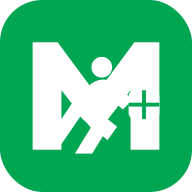
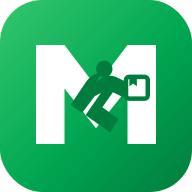
feat(branding): add Mzaya brand v1 production foundation

diff --git a/frontend/src/components/brand/MzayaIcon.jsx b/frontend/src/components/brand/MzayaIcon.jsx
@@ -1,43 +1,13 @@
-// Mzaya brand icon: an "M" with a running courier carrying a package.
-// Inline SVG so it scales crisply everywhere (favicon → splash) and is themeable.
-// Swap for a designer asset later by replacing this file's SVG only.
-export default function MzayaIcon({ size = 48, color = '#00A651', bg = null, rounded = true }) {
-  return (
-    <svg width={size} height={size} viewBox="0 0 100 100" fill="none" xmlns="http://www.w3.org/2000/svg">
-      {bg && (
-        <rect width="100" height="100" rx={rounded ? 22 : 0} fill={bg} />
-      )}
-      {/* The M uprights + valley, drawn as bold strokes */}
-      <g fill={bg ? '#FFFFFF' : color}>
-        {/* left leg of M */}
-        <path d="M20 78 V26 h9 l0 52 z" />
-        {/* right leg of M */}
-        <path d="M71 78 V26 h9 l0 52 z" />
-        {/* M inner diagonals (the valley) — subtle, behind the runner */}
-        <path d="M29 27 l11 20 -7 4 -11 -20 z" opacity="0.9" />
-        <path d="M71 27 l-11 20 7 4 11 -20 z" opacity="0.9" />
-      </g>
+import primary from "../../assets/brand/logos/mzaya-mark-green.svg";
+import white from "../../assets/brand/logos/mzaya-mark-white.svg";
+import navy from "../../assets/brand/logos/mzaya-mark-navy.svg";
 
-      {/* Running courier figure, centered in the M */}
-      <g fill={bg ? '#FFFFFF' : color}>
-        {/* head */}
-        <circle cx="52" cy="34" r="6.5" />
-        {/* torso + leading arm */}
-        <path d="M46 42
-                 q6 -3 12 1
-                 l8 5 -4 6 -7 -4
-                 q-4 -1 -7 2 z" />
-        {/* back leg (extended) */}
-        <path d="M40 66 l10 -12 5 4 -9 14 z" />
-        {/* front leg (driving forward) */}
-        <path d="M52 55 l9 8 -5 6 -11 -9 z" />
-      </g>
+const sources = { primary, white, navy };
 
-      {/* Package in the courier's leading hand */}
-      <g>
-        <rect x="63" y="44" width="13" height="13" rx="2.5" fill={bg ? '#FFFFFF' : color} />
-        <path d="M69.5 44 v13 M63 50.5 h13" stroke={bg || '#00A651'} strokeWidth="1.6" />
-      </g>
-    </svg>
-  )
+export default function MzayaIcon({
+  variant = "primary",
+  className = "",
+  title = "Mzaya",
+}) {
+  return <img src={sources[variant] ?? primary} alt={title} className={className} />;
 }

diff --git a/frontend/src/components/brand/MzayaLockup.jsx b/frontend/src/components/brand/MzayaLockup.jsx
@@ -1,52 +1,13 @@
-import MzayaIcon from './MzayaIcon'
+import primary from "../../assets/brand/logos/mzaya-lockup-horizontal-primary.svg";
+import white from "../../assets/brand/logos/mzaya-lockup-horizontal-white.svg";
+import navy from "../../assets/brand/logos/mzaya-lockup-horizontal-navy.svg";
 
-const GREEN = '#00A651'
+const sources = { primary, white, navy };
 
-// The lowercase "mzaya" wordmark — used in app headers.
-export function MzayaWordmark({ size = 'text-2xl', color = GREEN, className = '' }) {
-  return (
-    <span className={`font-black tracking-tight ${size} ${className}`} style={{ color }}>
-      mzaya
-    </span>
-  )
+export default function MzayaLockup({
+  variant = "primary",
+  className = "",
+  title = "Mzaya — Tumai Mzaya",
+}) {
+  return <img src={sources[variant] ?? primary} alt={title} className={className} />;
 }
-
-// Icon + wordmark together, optionally with the "Tumai Mzaya." tagline.
-// Used on splash / loading / marketing surfaces.
-export function MzayaLockup({ iconSize = 64, stacked = true, tagline = true, onDark = false }) {
-  const textColor = onDark ? '#FFFFFF' : GREEN
-  const taglineColor = onDark ? 'rgba(255,255,255,0.75)' : '#15803D'
-
-  if (stacked) {
-    return (
-      <div className="flex flex-col items-center gap-3">
-        <MzayaIcon size={iconSize} bg={GREEN} />
-        <div className="flex flex-col items-center">
-          <MzayaWordmark size="text-3xl" color={textColor} />
-          {tagline && (
-            <span className="text-sm font-medium mt-0.5" style={{ color: taglineColor }}>
-              Tumai Mzaya.
-            </span>
-          )}
-        </div>
-      </div>
-    )
-  }
-
-  // Horizontal lockup
-  return (
-    <div className="flex items-center gap-2.5">
-      <MzayaIcon size={iconSize} bg={GREEN} />
-      <div className="flex flex-col leading-none">
-        <MzayaWordmark size="text-2xl" color={textColor} />
-        {tagline && (
-          <span className="text-[11px] font-medium mt-0.5" style={{ color: taglineColor }}>
-            Tumai Mzaya.
-          </span>
-        )}
-      </div>
-    </div>
-  )
-}
-
-export default MzayaLockup

diff --git a/frontend/src/assets/brand/tokens/mzaya-tokens.css b/frontend/src/assets/brand/tokens/mzaya-tokens.css
@@ -1,15 +1,7 @@
-:root {
-  --mzaya-green: #00A651;
-  --mzaya-green-dark: #007D3D;
-  --mzaya-green-light: #34C76F;
-  --mzaya-mint: #E8F8EF;
-  --mzaya-navy: #071B33;
-  --mzaya-white: #FFFFFF;
-  --mzaya-surface-subtle: #F7F8FA;
-  --mzaya-text-secondary: #667085;
-  --mzaya-border: #E4E7EC;
-  --mzaya-radius-sm: 10px;
-  --mzaya-radius-md: 16px;
-  --mzaya-radius-lg: 24px;
-  --mzaya-shadow-card: 0 8px 24px rgba(7,27,51,.08);
-}
+@import "./mzaya-colors.css";
+@import "./mzaya-typography.css";
+@import "./mzaya-spacing.css";
+@import "./mzaya-motion.css";
+@import "./mzaya-shadows.css";
+
+html { font-family: var(--mzaya-font-sans); }

diff --git a/frontend/src/assets/brand/tokens/mzaya-colors.css b/frontend/src/assets/brand/tokens/mzaya-colors.css
@@ -1,0 +1,20 @@
+:root {
+  --mzaya-green-50: #EFFCF4;
+  --mzaya-green-100: #D9F8E5;
+  --mzaya-green-200: #B5EFCB;
+  --mzaya-green-300: #82E2A8;
+  --mzaya-green-400: #46CE7F;
+  --mzaya-green-500: #16B45F;
+  --mzaya-green-600: #00A651;
+  --mzaya-green-700: #008541;
+  --mzaya-green-800: #007D3D;
+  --mzaya-green-900: #07562F;
+  --mzaya-navy-950: #071B33;
+  --mzaya-sunshine: #FFC107;
+  --mzaya-mint: #E8F8EF;
+  --mzaya-text-primary: #111827;
+  --mzaya-text-secondary: #667085;
+  --mzaya-surface: #FFFFFF;
+  --mzaya-surface-subtle: #F7F8FA;
+  --mzaya-border: #E4E7EC;
+}

diff --git a/frontend/src/assets/brand/tokens/mzaya-typography.css b/frontend/src/assets/brand/tokens/mzaya-typography.css
@@ -1,0 +1,11 @@
+@import url("https://fonts.googleapis.com/css2?family=Manrope:wght@400;500;600;700;800&display=swap");
+:root {
+  --mzaya-font-sans: "Manrope", Inter, ui-sans-serif, system-ui, -apple-system, BlinkMacSystemFont, "Segoe UI", sans-serif;
+  --mzaya-font-size-xs: 0.75rem;
+  --mzaya-font-size-sm: 0.875rem;
+  --mzaya-font-size-md: 1rem;
+  --mzaya-font-size-lg: 1.125rem;
+  --mzaya-font-size-xl: 1.375rem;
+  --mzaya-font-size-2xl: 1.75rem;
+  --mzaya-font-size-3xl: 2.25rem;
+}

diff --git a/frontend/src/assets/brand/tokens/mzaya-spacing.css b/frontend/src/assets/brand/tokens/mzaya-spacing.css
@@ -1,0 +1,16 @@
+:root {
+  --mzaya-space-1: 0.25rem;
+  --mzaya-space-2: 0.5rem;
+  --mzaya-space-3: 0.75rem;
+  --mzaya-space-4: 1rem;
+  --mzaya-space-5: 1.25rem;
+  --mzaya-space-6: 1.5rem;
+  --mzaya-space-8: 2rem;
+  --mzaya-space-10: 2.5rem;
+  --mzaya-space-12: 3rem;
+  --mzaya-radius-sm: 0.5rem;
+  --mzaya-radius-md: 0.75rem;
+  --mzaya-radius-lg: 1rem;
+  --mzaya-radius-xl: 1.5rem;
+  --mzaya-radius-pill: 999px;
+}

diff --git a/frontend/src/assets/brand/tokens/mzaya-shadows.css b/frontend/src/assets/brand/tokens/mzaya-shadows.css
@@ -1,0 +1,6 @@
+:root {
+  --mzaya-shadow-sm: 0 1px 2px rgba(7, 27, 51, .06);
+  --mzaya-shadow-md: 0 8px 24px rgba(7, 27, 51, .10);
+  --mzaya-shadow-lg: 0 18px 48px rgba(7, 27, 51, .14);
+  --mzaya-focus-ring: 0 0 0 4px rgba(0, 166, 81, .18);
+}

diff --git a/frontend/src/assets/brand/tokens/mzaya-motion.css b/frontend/src/assets/brand/tokens/mzaya-motion.css
@@ -1,0 +1,7 @@
+:root {
+  --mzaya-motion-fast: 140ms;
+  --mzaya-motion-base: 220ms;
+  --mzaya-motion-slow: 320ms;
+  --mzaya-ease-standard: cubic-bezier(.2,.8,.2,1);
+  --mzaya-ease-emphasized: cubic-bezier(.2,.9,.2,1.1);
+}

diff --git a/MZAYA_BRAND_V1_INTEGRATION.md b/MZAYA_BRAND_V1_INTEGRATION.md
@@ -1,0 +1,9 @@
+# Integration checklist
+
+1. Copy this package into the repository root.
+2. Ensure `frontend/src/index.css` imports `mzaya-tokens.css`.
+3. Replace temporary text logos with `<MzayaLockup />`.
+4. Replace temporary app icons and favicons with files under `frontend/public/brand/`.
+5. Keep generic action icons from Lucide; use Mzaya-owned assets only for branded moments.
+6. Commit as:
+   `feat(branding): add Mzaya brand v1 production foundation`
